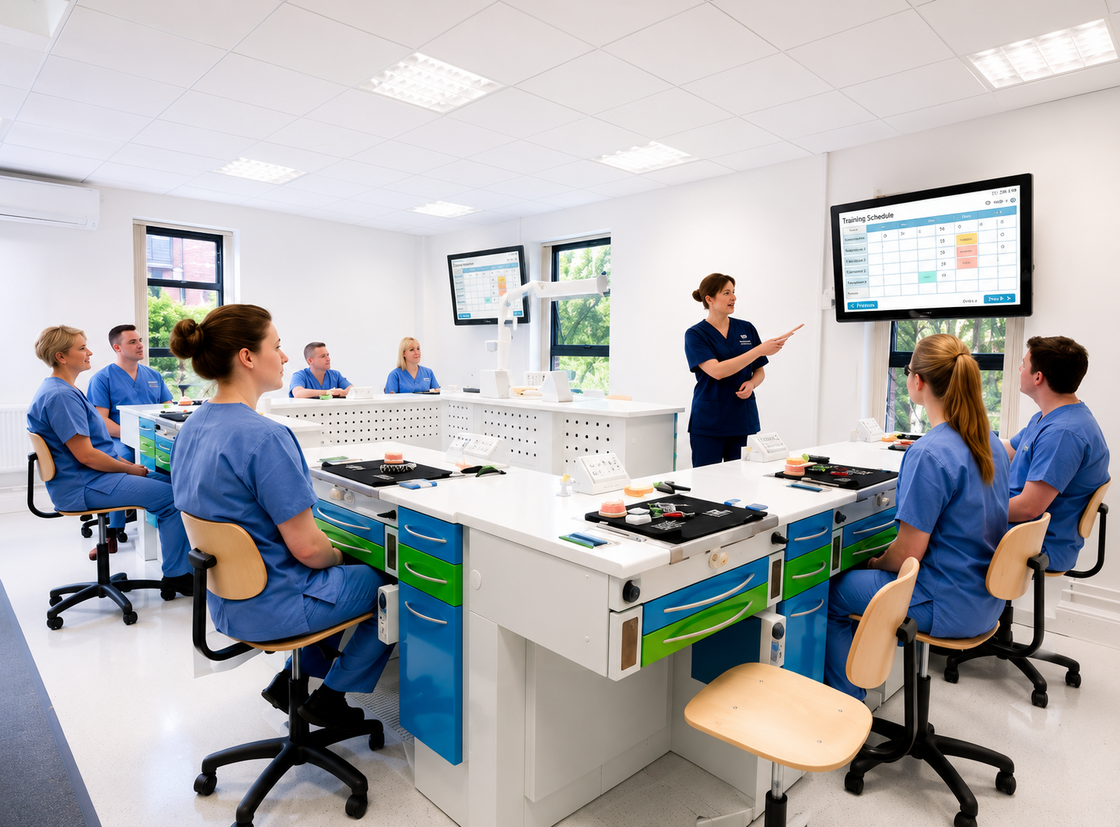
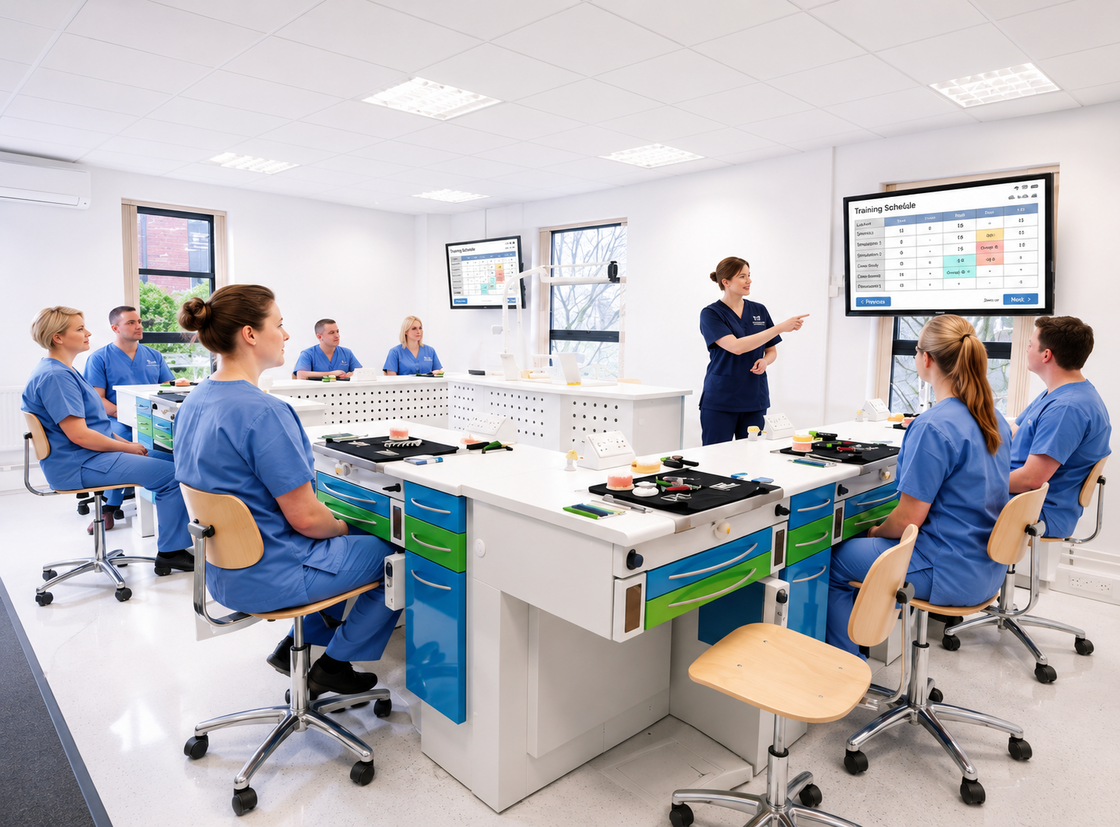
added a Vercel rewrite rule for book-demo page

diff --git a/src/components/HealthcareFeatures.tsx b/src/components/HealthcareFeatures.tsx
@@ -238,11 +238,11 @@ const HealthcareFeatures = () => {
   const features = [{
     image: practiceMgmtImage,
     title: "Practice Management Solutions",
-    description: "Comprehensive practice management software that streamlines scheduling, billing, and workflow optimization. Our integrated platform helps you manage every aspect of your healthcare practice efficiently, from appointment booking to revenue cycle management. Reduce administrative burden and focus more on patient care with our intelligent automation features."
+    description: "Comprehensive practice management software that streamlines scheduling, billing, and workflow optimization. Our integrated platform helps you manage every aspect of your healthcare practice efficiently, from appointment booking to revenue cycle management. Reduce administrative burden and focus more on patient care with our oral surgery features."
   }, {
     image: revenueCycleImage,
     title: "Revenue Cycle Management",
-    description: "Maximize your practice's financial performance with our intelligent billing and revenue cycle management solution. Automated claim submission, denial management, and real-time eligibility verification streamline your billing processes. Our analytics dashboard provides insights into financial performance, helping you identify opportunities for revenue optimization."
+    description: "Maximize your practice's financial performance with our intelligent billing and revenue cycle management solution. Medical & dental claim submission, line item posting denial management, strengthen your billing processes. Our analytics dashboard provides insights into financial performance, helping you identify opportunities for revenue optimization."
   }, {
     image: emrImage,
     title: "Electronic Medical Records",

diff --git a/src/pages/Resources.tsx b/src/pages/Resources.tsx
@@ -63,7 +63,7 @@ const Resources = () => {
       <section className="rounded-2xl p-6 shadow-sm mb-10 border border-gray-300" style={{ backgroundColor: '#FAFCFD' }}>
         <div className="grid lg:grid-cols-2 gap-8 items-center">
           <div className="rounded-2xl overflow-hidden">
-            <img src={trainingImg} alt="Training" className="w-full h-[360px] object-cover" loading="lazy" decoding="async" />
+            <img src={trainingImg} alt="Training" className="w-full h-[360px] object-fill" loading="lazy" decoding="async" />
           </div>
           <div>
             <h2 className="text-2xl sm:text-3xl font-bold mb-4 text-foreground">Training & Implementation</h2>

diff --git a/src/components/Header.tsx b/src/components/Header.tsx
@@ -98,7 +98,7 @@ const Header = () => {
                 Login
               </Button>
               <Button asChild variant="default" size="lg">
-                <a href="/book-demo">Book Free Demo</a>
+                <a href="/book-demo">Request Demo</a>
               </Button>
             </div>
           </nav>
@@ -135,7 +135,7 @@ const Header = () => {
                   Login
                 </Button>
                 <Button asChild variant="default" size="lg">
-                  <a href="/book-demo">Book Free Demo</a>
+                  <a href="/book-demo">Request Demo</a>
                 </Button>
               </div>
             </div>
